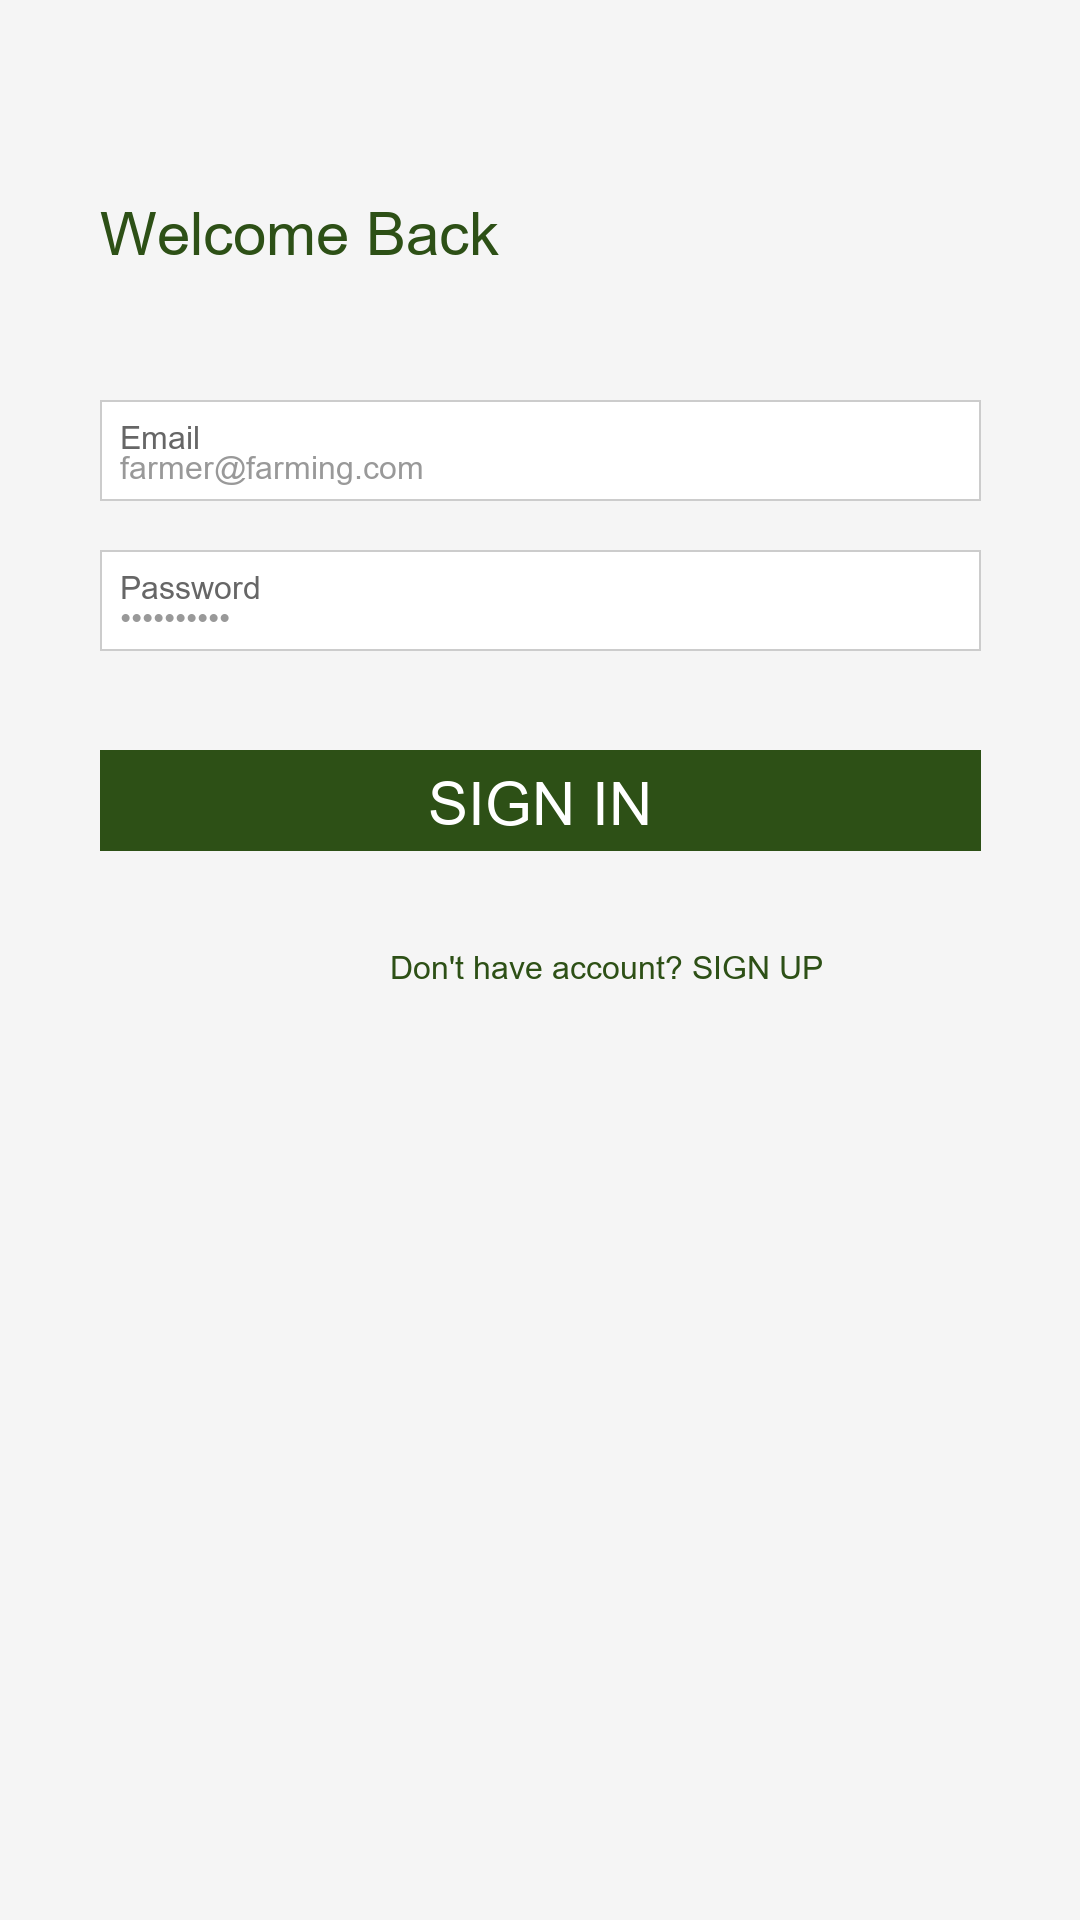
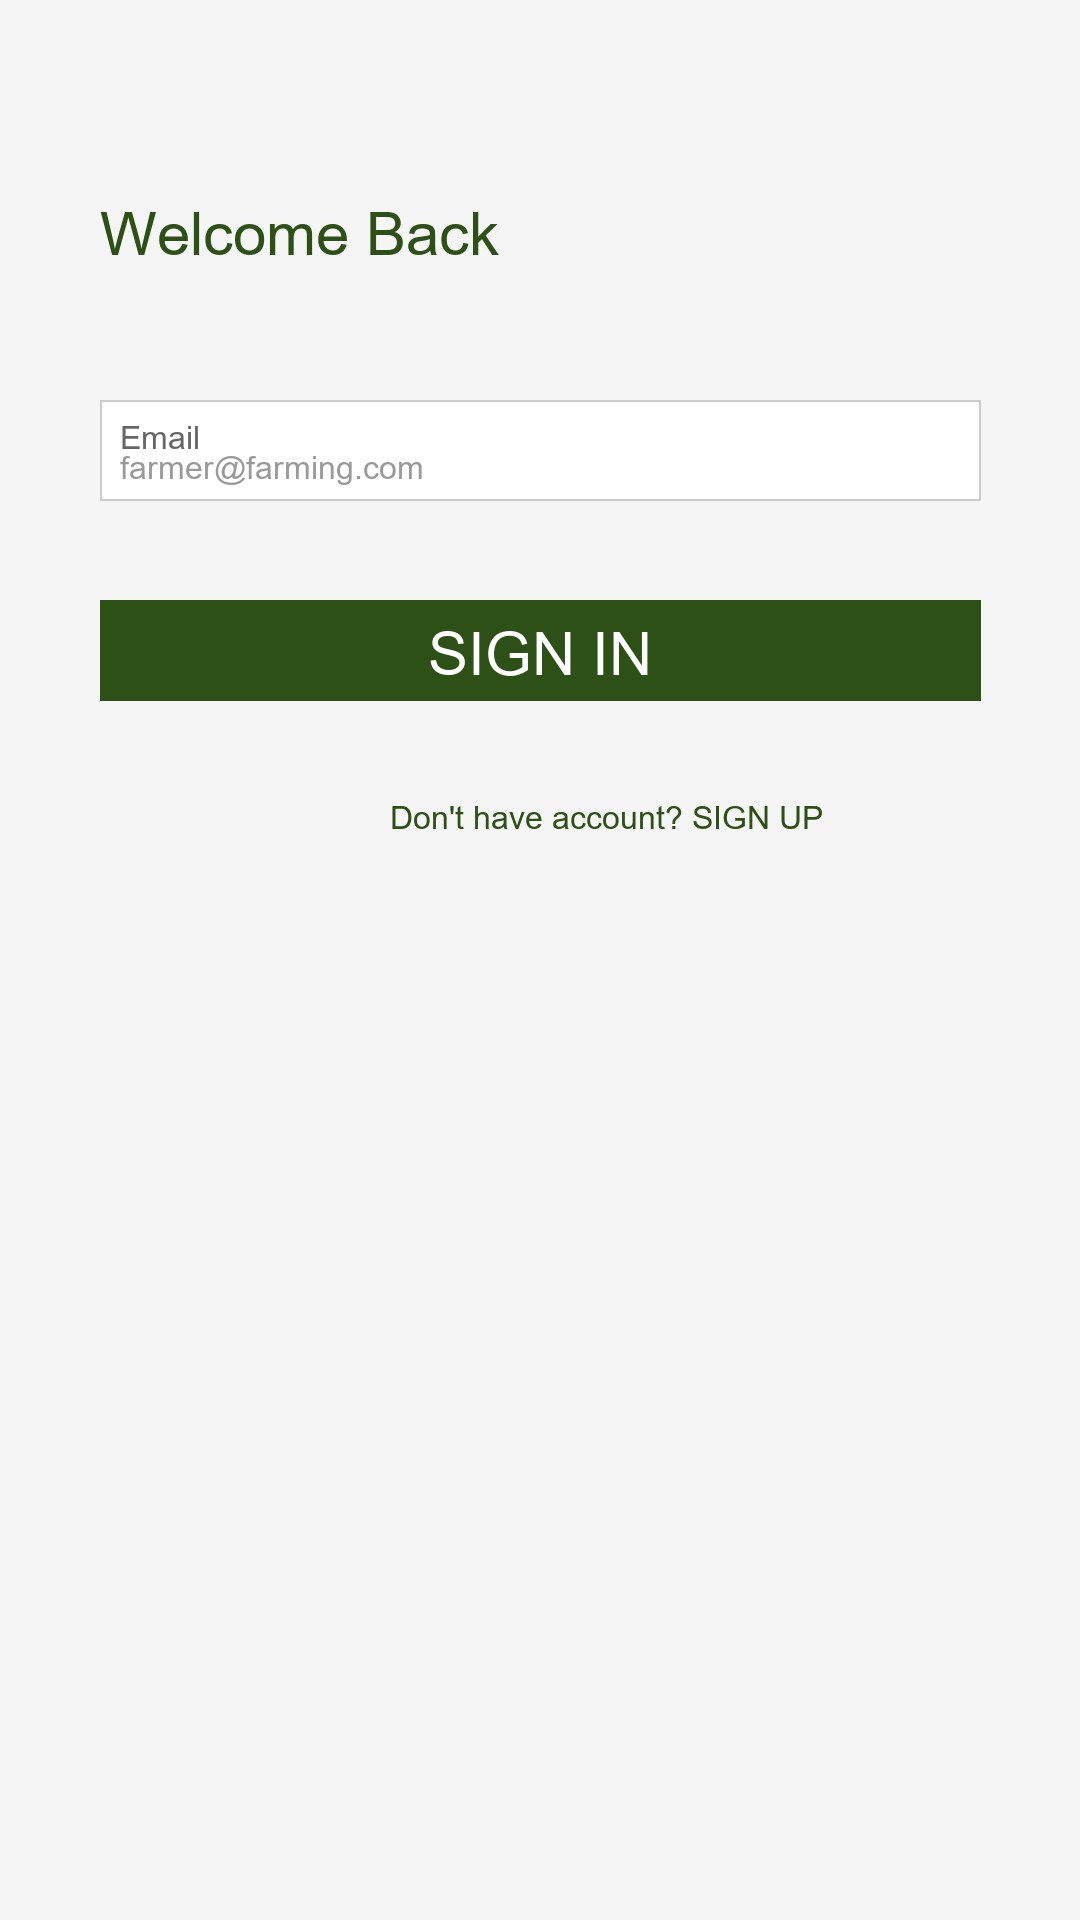
Remove password field from Flutter app demo login screen

diff --git a/flutter_app_demo_generator.py b/flutter_app_demo_generator.py
@@ -67,19 +67,14 @@ def create_flutter_app_screens():
         draw.text((120, 420), "Email", fill='#666666', font=font_text)
         draw.text((120, 450), "[email redacted]", fill='#999999', font=font_text)
 
-        # Password field
-        draw.rectangle([(100, 550), (980, 650)], fill='white', outline='#CCCCCC', width=2)
-        draw.text((120, 570), "Password", fill='#666666', font=font_text)
-        draw.text((120, 600), "••••••••••", fill='#999999', font=font_text)
-
         # Sign In button
-        draw.rectangle([(100, 750), (980, 850)], fill='#2D5016', width=0)
+        draw.rectangle([(100, 600), (980, 700)], fill='#2D5016', width=0)
         bbox = draw.textbbox((0, 0), "SIGN IN", font=font_title)
         btn_text_width = bbox[2] - bbox[0]
-        draw.text(((WIDTH - btn_text_width) // 2, 770), "SIGN IN", fill='white', font=font_title)
+        draw.text(((WIDTH - btn_text_width) // 2, 620), "SIGN IN", fill='white', font=font_title)
 
         # Sign up link
-        draw.text(((WIDTH - 300) // 2, 950), "Don't have account? SIGN UP", fill='#2D5016', font=font_text)
+        draw.text(((WIDTH - 300) // 2, 800), "Don't have account? SIGN UP", fill='#2D5016', font=font_text)
 
         return img
 